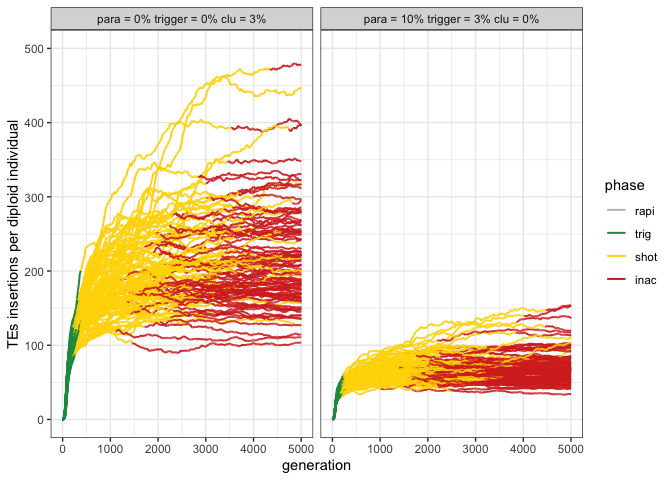
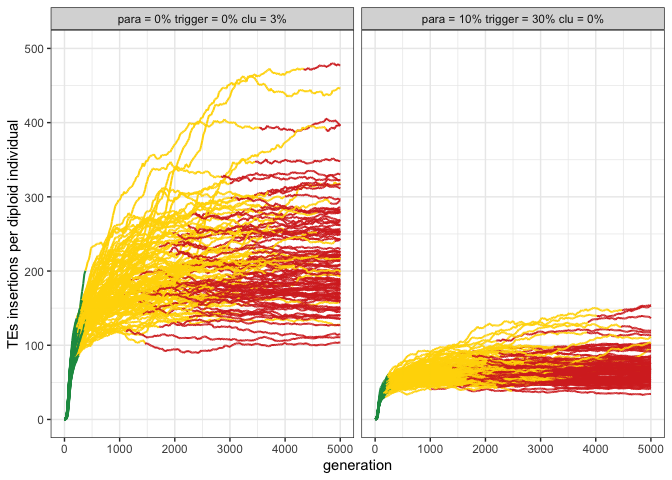
Update

diff --git a/Simulation/2023_02_15_Suplement_Trigger.md b/Simulation/2023_02_15_Suplement_Trigger.md
@@ -247,12 +247,11 @@ g<-ggplot()+
   xlab("generation")+
   ylab("TEs insertions per diploid individual")+
   theme(legend.position="none")+
-  theme_bw()+
   scale_colour_manual(values=p)+
   ylim(0,500)+
   facet_wrap(~sampleid, labeller = labeller(sampleid = 
                                               c("p0" = "para = 0% trigger = 0% clu = 3%",
-                                                "p3_10" = "para = 10% trigger = 3% clu = 0%")))
+                                                "p3_10" = "para = 10% trigger = 30% clu = 0%")))
 
 plot(g)
 ```
